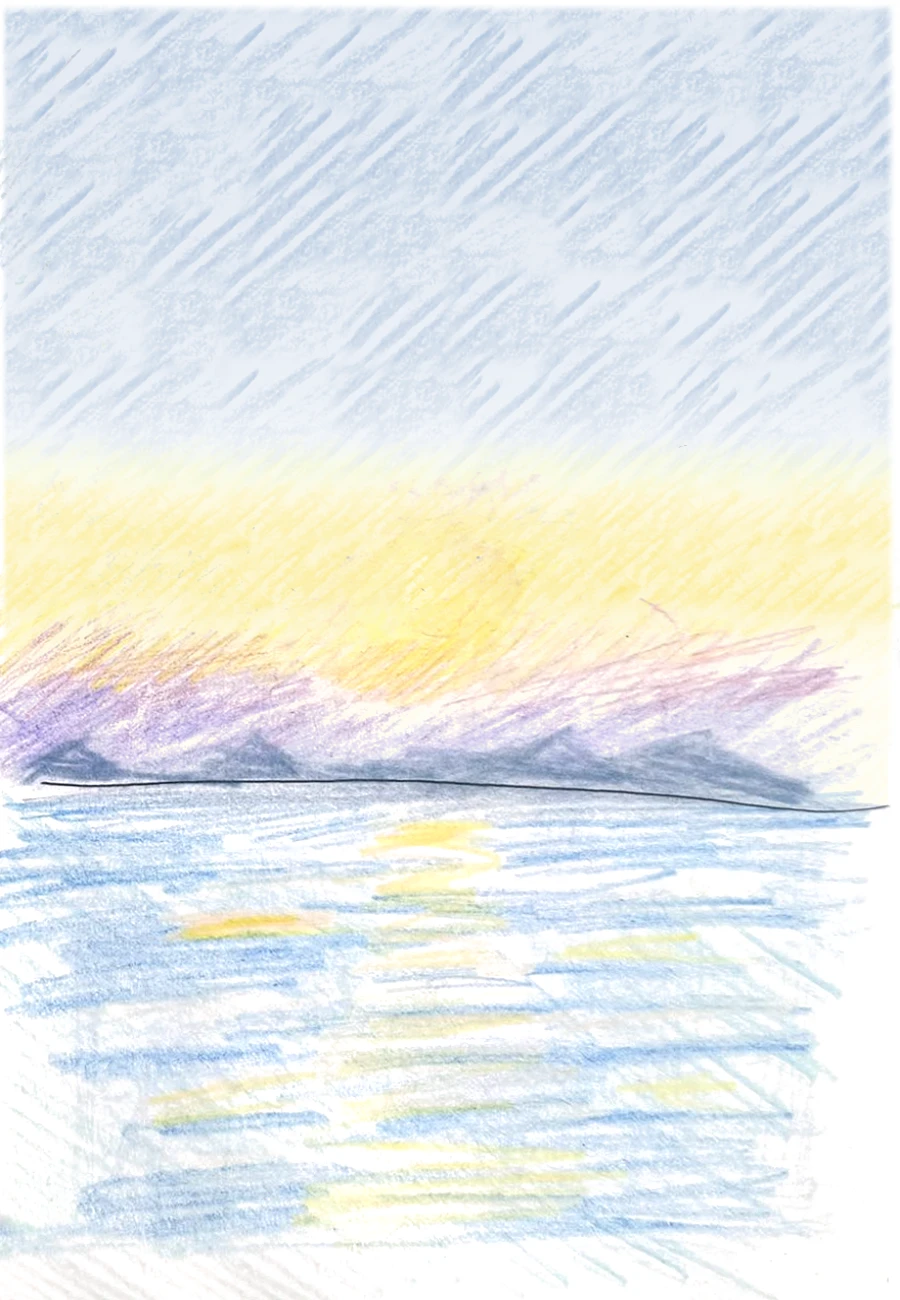
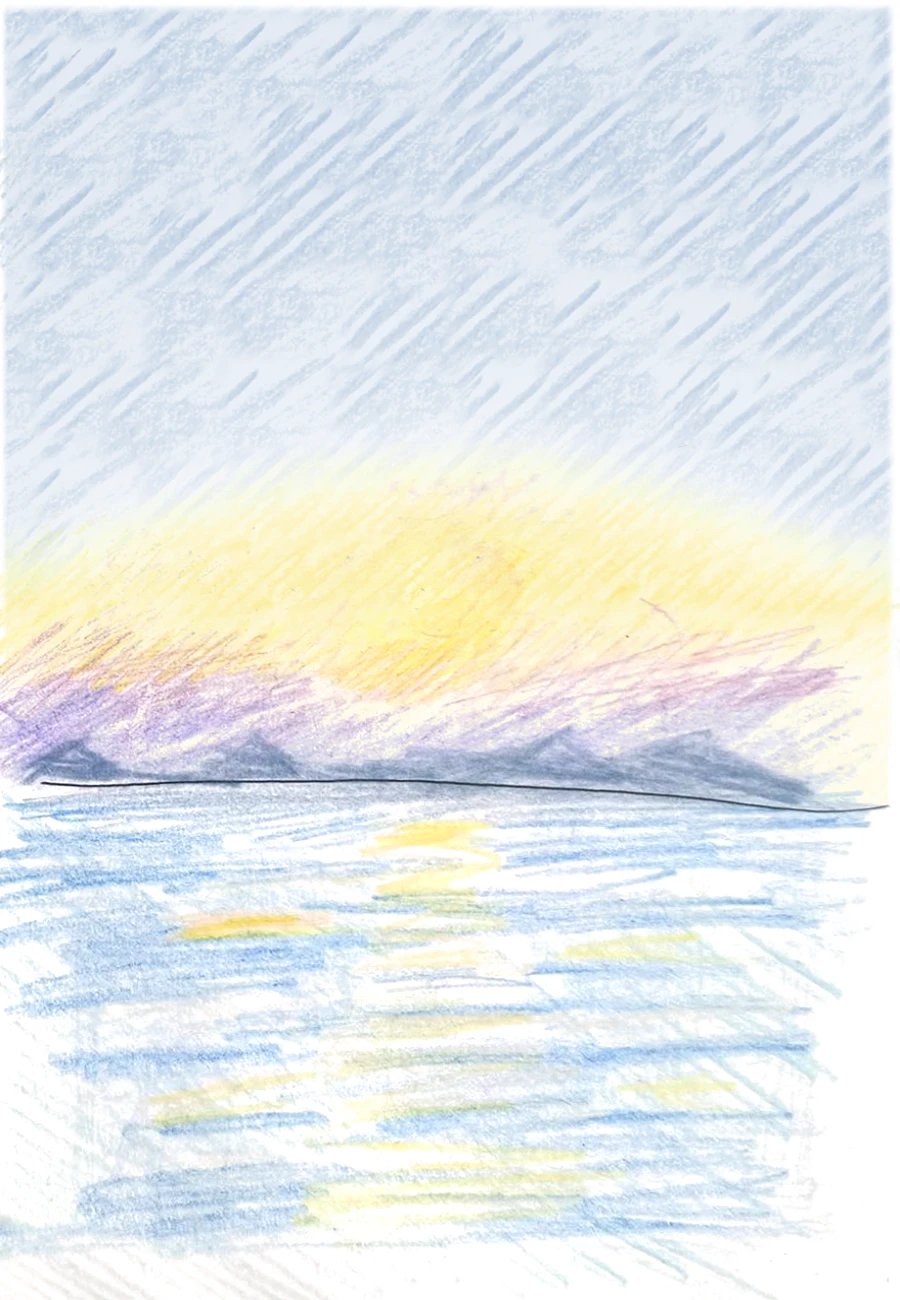
Curved sky gradient, keep the whole popsicle stick, drop pronunciation
Claude-Session: https://claude.ai/code/session_01CxARGit4TMnQvQxntM6gxE

Changed region(s): [[0.7778, 0.3385, 0.9956, 0.4615], [0.0, 0.3385, 0.2489, 0.4615]]

diff --git a/index.html b/index.html
@@ -139,7 +139,7 @@ header { display: flex; align-items: center; justify-content: space-between; gap
 .page.right canvas.sky { cursor: ns-resize; }
 .page.right canvas.sea { cursor: pointer; }
 
-/* speech pill for the Italian words */
+/* small note pill (popsicle finished) */
 .say {
   position: absolute; z-index: 5; pointer-events: none;
   transform: translate(-50%, -100%) translateY(-6px);
@@ -234,8 +234,8 @@ footer { display: grid; gap: 10px; justify-items: center; max-width: 560px; widt
     <ul class="hints" id="hints">
       <li><strong>Tap</strong> the sea</li>
       <li><strong>Drag</strong> the sky to move the sun</li>
-      <li><strong>Tap</strong> the treats (the popsicle is for eating)</li>
-      <li><strong>Tap</strong> a word to hear the Italian</li>
+      <li><strong>Tap</strong> the treats</li>
+      <li>The popsicle is for eating</li>
     </ul>
   </footer>
 </div>
@@ -634,13 +634,6 @@ function penStroke(x, pts, seed, scale, alpha) {
 }
 
 /* ======================================================= treats page (2D) */
-const ITALIAN = {
-  lbl_melon:   { it: 'anguria', say: 'anguria', hint: 'an·gu·RÌ·a' },
-  lbl_bracket: { it: 'anguria', say: 'anguria', hint: 'an·gu·RÌ·a' },
-  lbl_cherry:  { it: 'ciliegia', say: 'ciliegia', hint: 'ci·LIÈ·gia' },
-  lbl_pop:     { it: 'ghiacciolo al pistacchio', say: 'ghiacciolo al pistacchio', hint: 'ghiac·CIÒ·lo' },
-  lbl_eclair:  { it: 'éclair ai fichi e miele', say: 'éclair ai fichi e miele', hint: 'FI·chi e MIÈ·le' },
-};
 class Treats {
   constructor(canvas, imgs, meta) {
     this.c = canvas; this.x = canvas.getContext('2d'); this.base = imgs.left_base;
@@ -697,7 +690,7 @@ class Treats {
       it.sq = -.12; it.vsq = -1.5; it.vr += (px < it.pv[0] ? -.4 : .4);
       Sound.squish();
     } else if (it.label) {
-      it.vr += .9; this.say(n, px, py);
+      it.vr += .9;
     }
   }
   drip() {
@@ -712,7 +705,7 @@ class Treats {
     const c = document.createElement('canvas'); c.width = it.w; c.height = it.h;
     this.popOrig = it.img; it.img = c; this.popCtx = c.getContext('2d', { willReadFrequently: true });
     // the stick (page px) is never eaten
-    this.stick = [[676, 512], [700, 504], [760, 518], [784, 546], [772, 563], [722, 560], [678, 549]];
+    this.stick = [[659, 521], [688, 511], [705, 517], [746, 528], [773, 542], [786, 554], [780, 571], [758, 574], [724, 568], [699, 560], [680, 552], [658, 544]];
     this.biteSeq = [[466, 468, 60], [500, 545, 58], [536, 438, 62], [570, 532, 62], [606, 446, 64], [636, 548, 60], [662, 462, 62]];
     this.resetPopsicle();
   }
@@ -723,9 +716,10 @@ class Treats {
   }
   stickPath(x, grow = 0) {
     const it = this.pop; x.beginPath();
-    this.stick.forEach(([px, py], i) => { const X = px - it.x + (px > 730 ? grow : 0), Y = py - it.y; i ? x.lineTo(X, Y) : x.moveTo(X, Y); });
+    this.stick.forEach(([px, py], i) => { const X = px - it.x, Y = py - it.y; i ? x.lineTo(X, Y) : x.moveTo(X, Y); });
     x.closePath();
   }
+  keepStick(x) { this.stickPath(x); x.fillStyle = '#000'; x.fill(); x.lineWidth = 6; x.lineJoin = 'round'; x.strokeStyle = '#000'; x.stroke(); }
   biteShape(x, cx, cy, r, grow) {
     // a jaw: one round bite with a row of teeth marks scalloping its rim
     x.beginPath(); x.arc(cx, cy, r - 5 + grow, 0, Math.PI * 2); x.fill();
@@ -759,12 +753,12 @@ class Treats {
       rg.fillStyle = `rgb(${PEN})`; shape(rg, 2.8); rg.globalCompositeOperation = 'destination-out'; shape(rg, 0);
       t.drawImage(ring, 0, 0);
       t.globalCompositeOperation = 'destination-in'; t.drawImage(it.img, 0, 0);      // only where there is still popsicle
-      t.globalCompositeOperation = 'destination-out'; this.stickPath(t); t.fill();
+      t.globalCompositeOperation = 'destination-out'; this.keepStick(t);
       t.globalCompositeOperation = 'source-over';
     }
     // crumbs: real pixels from the bitten part
     const mask = document.createElement('canvas'); mask.width = W; mask.height = H; const mk = mask.getContext('2d');
-    shape(mk, 0); mk.globalCompositeOperation = 'destination-out'; this.stickPath(mk); mk.fill();
+    shape(mk, 0); mk.globalCompositeOperation = 'destination-out'; this.keepStick(mk);
     const md = mk.getImageData(0, 0, W, H).data, bd = before.data;
     let tries = 0, made = 0;
     while (made < 14 && tries++ < 600) {
@@ -791,24 +785,6 @@ class Treats {
     const pill = document.createElement('div'); pill.className = 'say';
     pill.innerHTML = '<b></b><span></span>'; pill.querySelector('b').textContent = main; pill.querySelector('span').textContent = sub;
     pill.style.left = clamp((it.x + it.w * .7) / PW * 100, 18, 82) + '%'; pill.style.top = ((it.y + 110) / PH * 100) + '%';
-    host.appendChild(pill); setTimeout(() => pill.remove(), 2700);
-  }
-  say(name, px, py) {
-    const w = ITALIAN[name]; if (!w) return;
-    try {
-      if ('speechSynthesis' in window) {
-        speechSynthesis.cancel();
-        const u = new SpeechSynthesisUtterance(w.say); u.lang = 'it-IT'; u.rate = .82;
-        const v = speechSynthesis.getVoices().find((v) => /^it/i.test(v.lang)); if (v) u.voice = v;
-        speechSynthesis.speak(u);
-      }
-    } catch (e) {}
-    const host = this.c.parentElement; host.querySelectorAll('.say').forEach((n) => n.remove());
-    const it = this.by[name];
-    const pill = document.createElement('div'); pill.className = 'say';
-    pill.innerHTML = `<b></b><span></span>`; pill.querySelector('b').textContent = w.it; pill.querySelector('span').textContent = w.hint;
-    pill.style.left = clamp((it.x + it.w / 2) / PW * 100, 18, 82) + '%';
-    pill.style.top = (it.y / PH * 100) + '%';
     host.appendChild(pill); setTimeout(() => pill.remove(), 2700);
   }
   bindInput() {

diff --git a/tools/fill_sky.py b/tools/fill_sky.py
@@ -44,8 +44,11 @@ def fill_sky(R, land, seed=3):
     Dy = 0.40 + 0.60 * Dy0
     y = np.arange(H, dtype=np.float32)[:, None]
     ss = lambda a, b, v: np.clip((v - a) / (b - a), 0, 1) ** 2 * (3 - 2 * np.clip((v - a) / (b - a), 0, 1))
-    blue_amt = (0.25 - 0.06 * ss(120, 400, y)) * (1 - ss(370, 520, y))
-    yel_amt = 0.42 * ss(400, 560, y) * (1 - 0.8 * ss(590, 680, y))
+    # the glow is a dome around the sun: the blue/yellow boundary arcs down toward the page edges
+    xs = np.arange(W, dtype=np.float32)[None]
+    yc = y - 0.00062 * (xs - 455) ** 2
+    blue_amt = (0.25 - 0.06 * ss(120, 400, yc)) * (1 - ss(370, 520, yc))
+    yel_amt = 0.42 * np.maximum(ss(400, 560, yc), ss(500, 620, y)) * (1 - 0.7 * ss(600, 690, y))
     sky = (1 - land) * ss(2, 14, y) * np.ones((1, W), np.float32)
     x = np.arange(W, dtype=np.float32)[None]
     sky *= ss(0, 8, x) * (1 - ss(884, 896, x))

diff --git a/README.md b/README.md
@@ -7,8 +7,7 @@ Open `index.html` through any static server (`python3 -m http.server`).
   through orange, rose and violet using the drawing's own pencil strokes. Tap or drag on
   the sea for ripples, drag the sky up and down to move the sun, tap the sky to send gulls off.
   The sky is coloured in edge to edge with patches of the artist's own hatching (`tools/fill_sky.py`).
-- **Treats page**: tap the watermelon, cherry, popsicle and éclair; tap a handwritten word
-  to hear the Italian. The popsicle is eaten one bite per tap; tap the stick for another.
+- **Treats page**: tap the watermelon, cherry, popsicle and éclair. The popsicle is eaten one bite per tap; tap the stick for another.
 
 ## Rebuilding the assets from the photo
 
